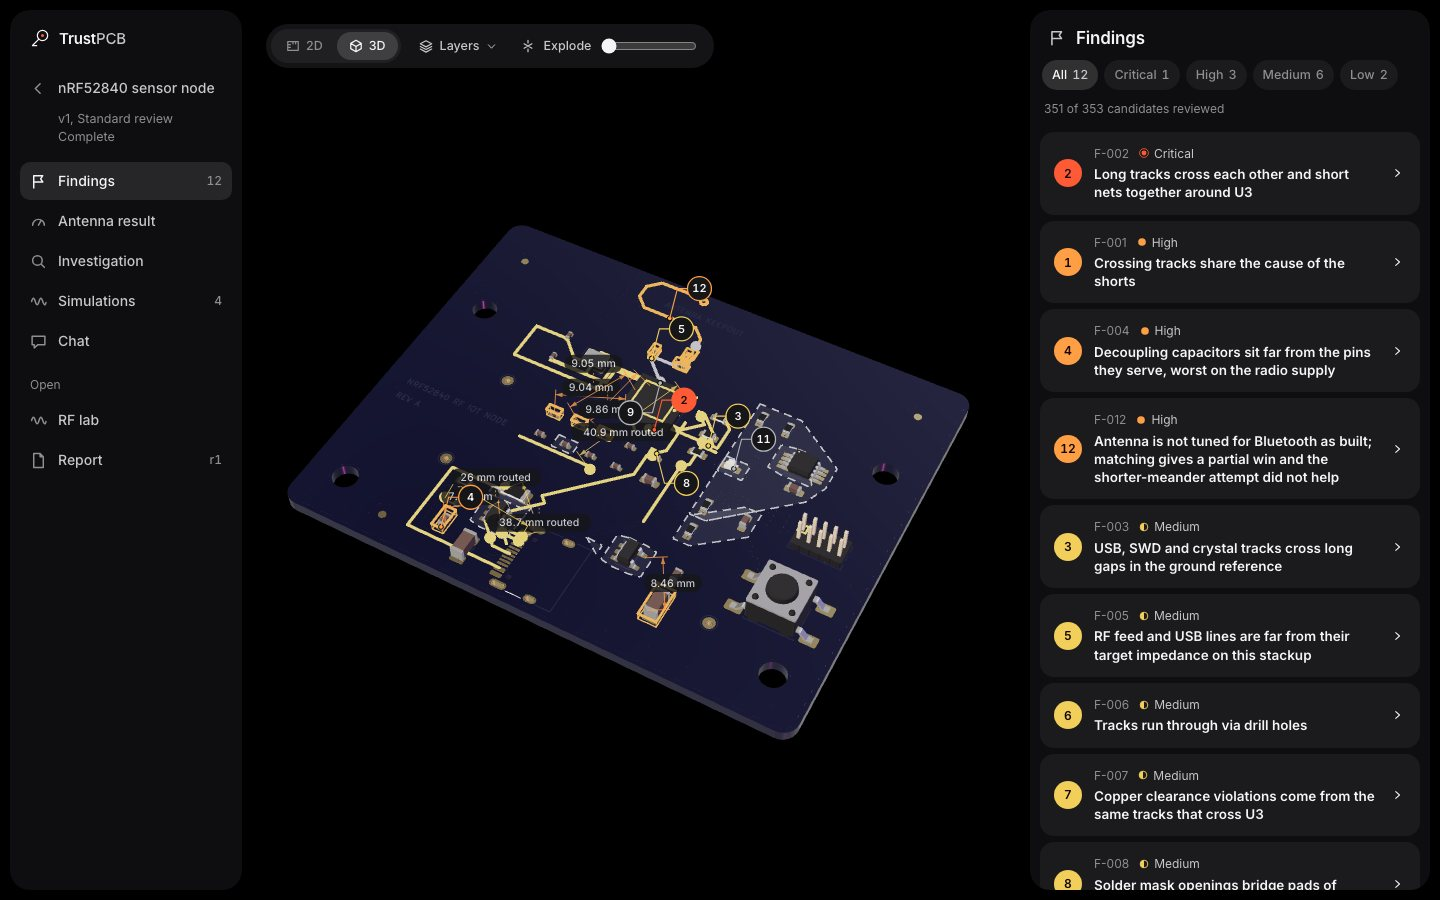
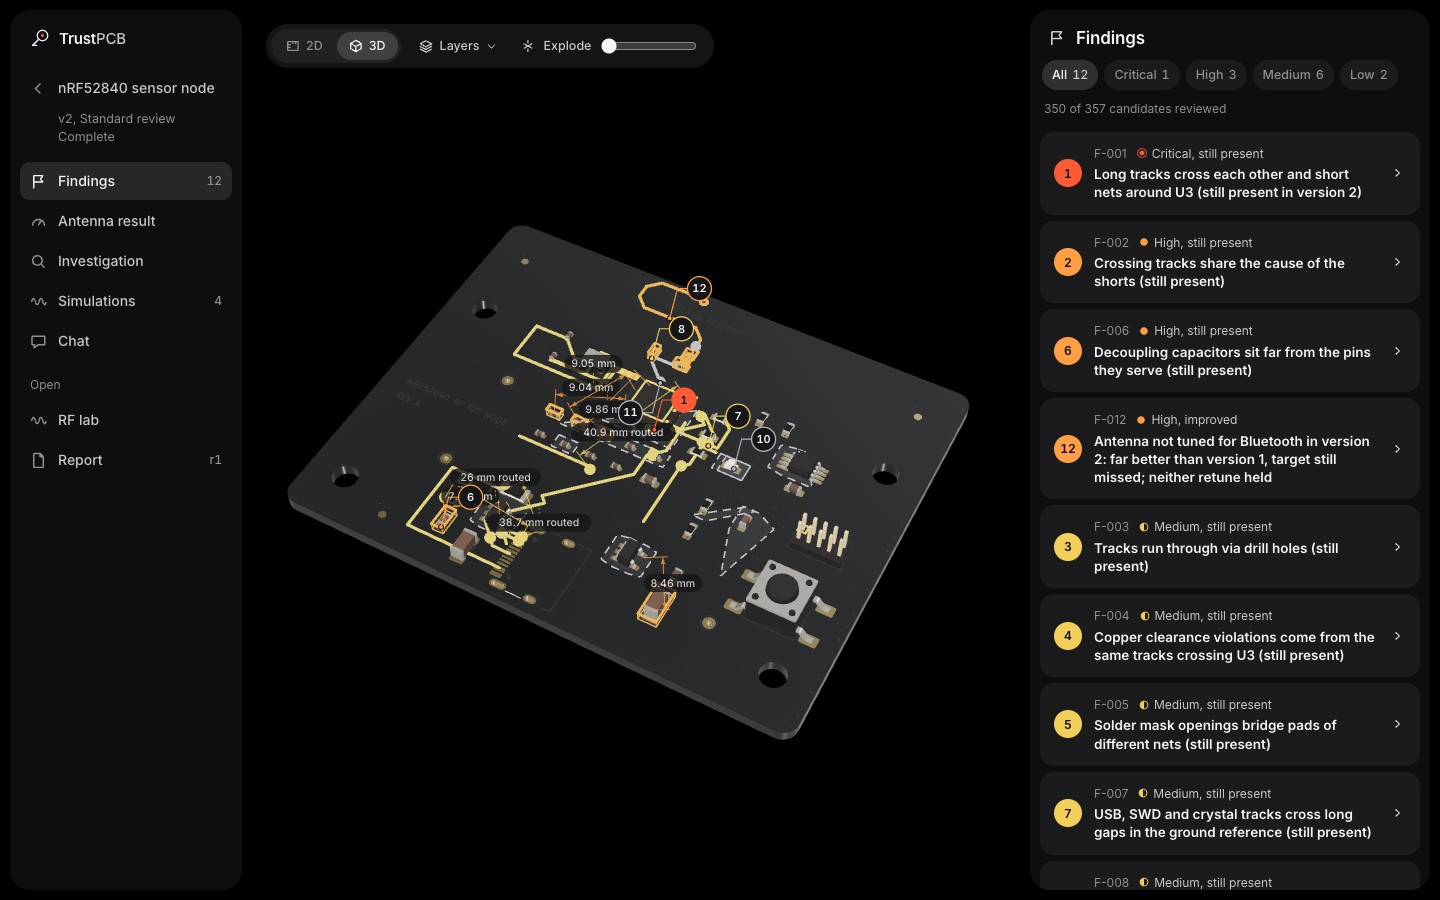
fix: neutralise the 3D board colours and sentence-case the zone labels

diff --git a/web/components/board2d/BoardLayers.tsx b/web/components/board2d/BoardLayers.tsx
@@ -16,6 +16,14 @@ const ROLE_COLORS: Record<string, string> = {
 };
 export const roleColor = (role: string) => ROLE_COLORS[role] ?? "#9d9bc0";
 
+const ROLE_ACRONYMS = new Set(["rf", "usb", "swd", "gpio", "adc", "dac"]);
+/** Sentence case for a zone role: "clock" -> "Clock", "usb" -> "USB", "power_in" -> "Power in". */
+export function roleLabel(role: string): string {
+  const t = role.replace(/_/g, " ").trim();
+  if (ROLE_ACRONYMS.has(t.toLowerCase())) return t.toUpperCase();
+  return t.charAt(0).toUpperCase() + t.slice(1).toLowerCase();
+}
+
 function useGeometry(board: Board) {
   return useMemo(() => {
     const outline = board.outline.map(ringD).join("");
@@ -147,7 +155,7 @@ export function ZoneLabels({ zones, px, show }: { zones: FunctionZone[]; px: (n:
       {zones.map((z) => {
         const xs = z.ring.map((p) => p[0]), ys = z.ring.map((p) => p[1]);
         const cx = (Math.min(...xs) + Math.max(...xs)) / 2, cy = Math.min(...ys);
-        return <text key={`${z.role}-${z.index}`} x={cx} y={cy - px(4)} textAnchor="middle" fontSize={px(9)} fill={roleColor(z.role)} fillOpacity="0.8" style={{ font: `500 ${px(9)}px var(--font-mono)`, letterSpacing: "0.06em", textTransform: "uppercase" }}>{z.role}</text>;
+        return <text key={`${z.role}-${z.index}`} x={cx} y={cy - px(4)} textAnchor="middle" fontSize={px(9)} fill={roleColor(z.role)} fillOpacity="0.8" style={{ font: `500 ${px(9)}px var(--font-mono)`, letterSpacing: "0.02em" }}>{roleLabel(z.role)}</text>;
       })}
     </g>
   );

diff --git a/web/components/scene3d/boardModel.ts b/web/components/scene3d/boardModel.ts
@@ -10,8 +10,8 @@ export interface BoardModel {
 }
 
 const palette = {
-  substrate: new THREE.MeshPhysicalMaterial({ color: "#14173a", roughness: 0.5, metalness: 0.15, clearcoat: 0.7, clearcoatRoughness: 0.35 }),
-  copper: new THREE.MeshPhysicalMaterial({ color: "#191940", roughness: 0.3, metalness: 0.55, clearcoat: 1, clearcoatRoughness: 0.18 }),
+  substrate: new THREE.MeshPhysicalMaterial({ color: "#26272a", roughness: 0.5, metalness: 0.15, clearcoat: 0.7, clearcoatRoughness: 0.35 }),
+  copper: new THREE.MeshPhysicalMaterial({ color: "#303236", roughness: 0.3, metalness: 0.55, clearcoat: 1, clearcoatRoughness: 0.18 }),
   pad: new THREE.MeshStandardMaterial({ color: "#f0d9a0", roughness: 0.2, metalness: 1 }),
   silk: new THREE.MeshStandardMaterial({ color: "#f3efd2", roughness: 0.8, metalness: 0 }),
 };

diff --git a/web/components/scene3d/Scene3D.tsx b/web/components/scene3d/Scene3D.tsx
@@ -169,10 +169,10 @@ function Env() {
 function Lights() {
   return (
     <>
-      <ambientLight intensity={0.25} color="#8f8cff" />
+      <ambientLight intensity={0.25} color="#ffffff" />
       <directionalLight position={[-60, 120, 70]} intensity={2.3} color="#fff3e0" />
-      <directionalLight position={[90, 40, -90]} intensity={1.7} color="#7a6bff" />
-      <directionalLight position={[40, -60, 40]} intensity={0.5} color="#b54a9a" />
+      <directionalLight position={[90, 40, -90]} intensity={1.7} color="#dcdde2" />
+      <directionalLight position={[40, -60, 40]} intensity={0.5} color="#c8c8c8" />
     </>
   );
 }
